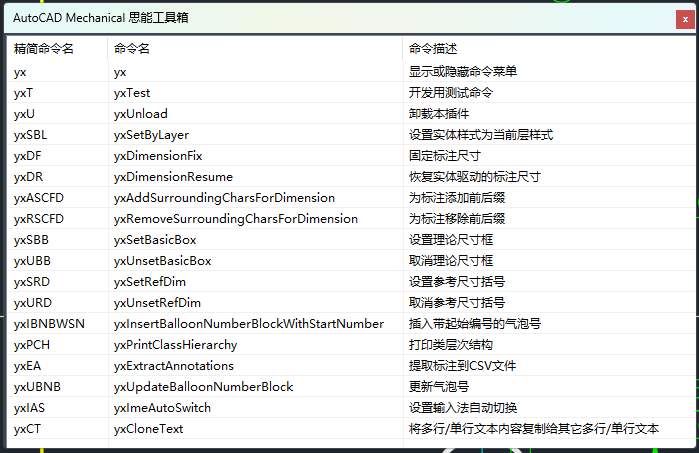
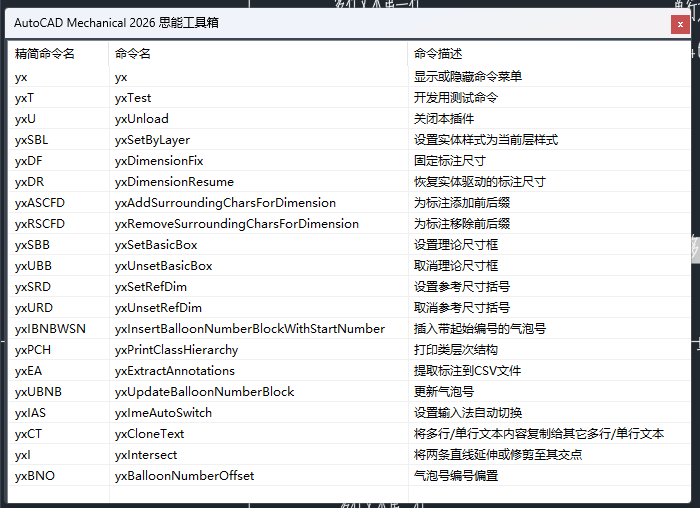
新增气泡号编号偏置功能

Changed region(s): [[0.0, 0.0, 1.0, 1.0]]

diff --git a/BalloonNumber.cpp b/BalloonNumber.cpp
@@ -1,5 +1,6 @@
 module;
 #include "StdAfx.h"
+#include "resource.h"
 #include <stdexcept>
 
 module BalloonNumber;
@@ -368,5 +369,39 @@ namespace BalloonNumber
         delete pAttIt;
         pBlkRef->close();
         return bFound;
+    }
+
+    void balloonNumberOffset(const AcDbObjectId& id, int offset)
+    {
+        AcString currVal;
+        if (!BalloonNumber::getBalloonAttributeValue(id, currVal))
+        {
+            return;
+        }
+
+        acutPrintf(Common::loadString(IDS_OffsetResultInfo_FMT), currVal.constPtr());
+        try
+        {
+            std::wstring wstr(currVal.constPtr());
+            size_t pos = 0;
+            int val = std::stoi(wstr, &pos);
+            if (pos != wstr.length())
+            {
+                throw std::exception();
+            }
+
+            int newVal = val + offset;
+            if (newVal < 0)
+            {
+                newVal = 0;
+                acutPrintf(L"\n%s", Common::loadString(IDS_OffsetLessZero));
+            }
+            acutPrintf(Common::loadString(IDS_OffsetTargetInfo_FMT), newVal);
+            BalloonNumber::updateBalloonNumberBlock(id, newVal);
+        }
+        catch (...)
+        {
+            acutPrintf(L"\n%s", Common::loadString(IDS_Err_BalloonNumberOffsetFail));
+        }
     }
 }

diff --git a/resource.h b/resource.h
@@ -70,6 +70,15 @@
 #define IDS_Msg_PasteDstTextPrompt      152
 #define IDS_Version                     153
 #define IDS_yxIntersect                 154
+#define IDS_yxBalloonNumberOffsetCommandDescription 155
+#define IDS_BalloonNumberOffsetLabel    156
+#define IDS_OffsetResultInfo_FMT        157
+#define IDS_OffsetLessZero              158
+#define IDS_OffsetTargetInfo_FMT        159
+#define IDS_Err_BalloonNumberOffsetFail 160
+#define IDS_Err_EmptyBalloonNumberOffset 161
+#define IDS_Err_InvalidInteger          162
+#define IDS_BalloonNumberOffsetPromptInfo 163
 
 // Next default values for new objects
 // 
